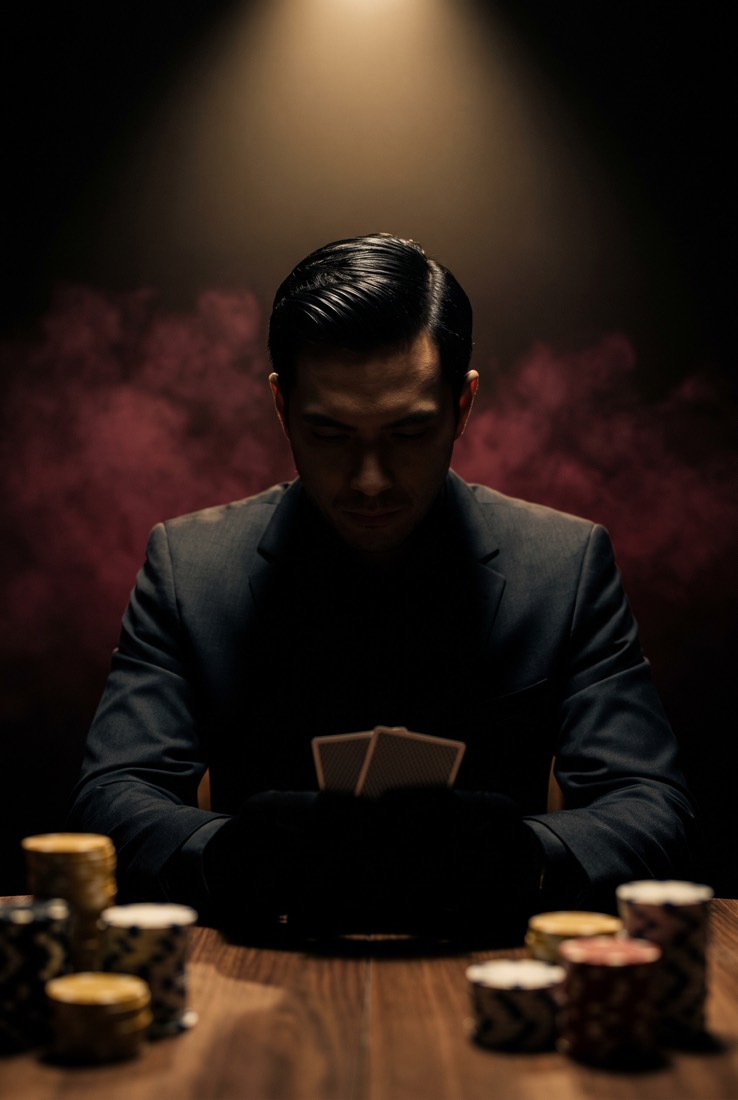
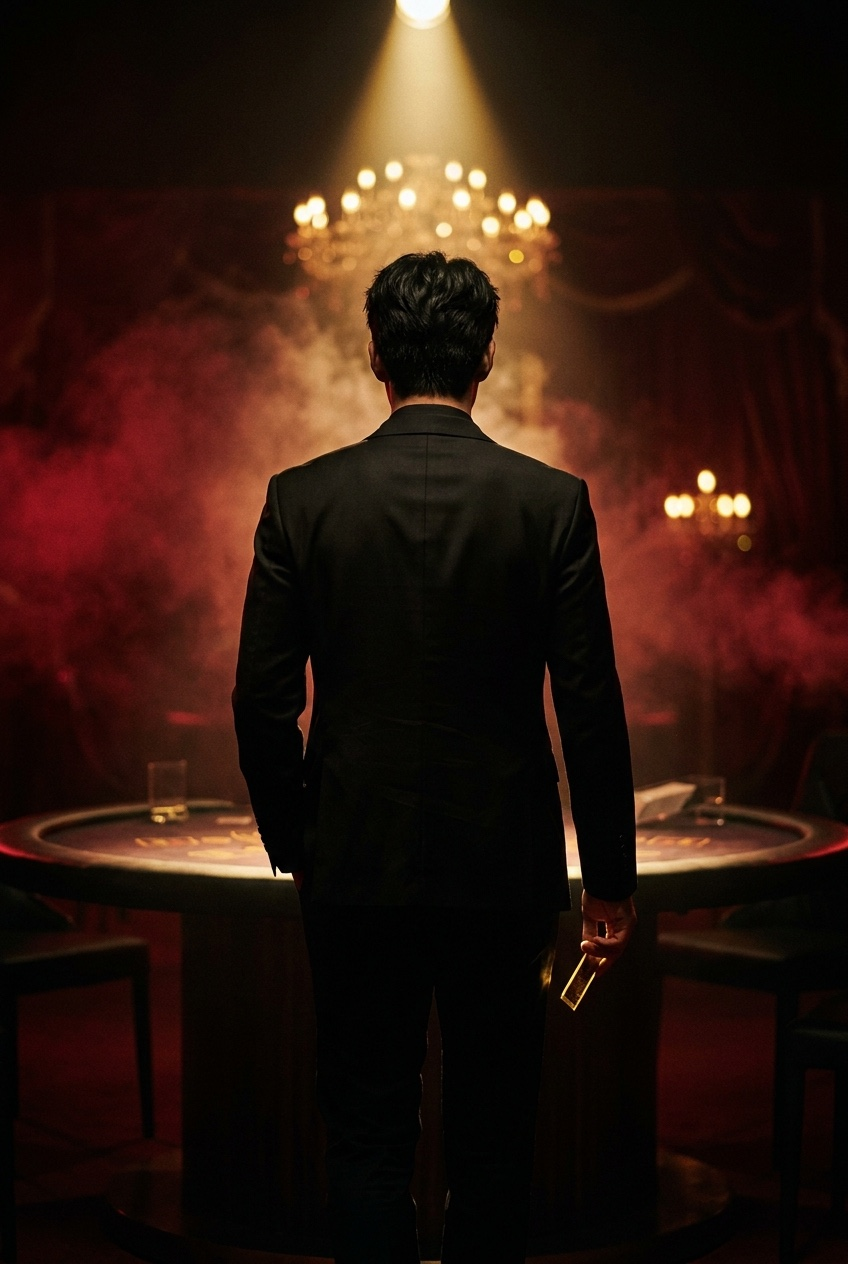
히어로 이미지 교체(20대 뒷모습 비노출)·메인 카피 전면 교체(8개 언어)

diff --git a/index.html b/index.html
@@ -524,7 +524,7 @@ footer .mono{font-family:var(--mono);letter-spacing:.14em}
 <section class="quoteband">
   <img src="images/nf_couple.jpg" alt="">
   <div class="qveil"></div>
-  <p data-i="q_line">"인생의 올인은,<br>사랑하는 사람이다."</p>
+  <p data-i="q_line">"운명이 내민 마지막 패는,<br>너였다."</p>
   <span class="mono">ALL-IN 2 · NOT OVER · 2028 GLOBAL RELEASE</span>
 </section>
 
@@ -571,7 +571,7 @@ footer .mono{font-family:var(--mono);letter-spacing:.14em}
     v4_t:"IP 프랜차이즈",v4_p:"드라마는 시작일 뿐. 시즌2와 스핀오프, 웹툰·OST·제주 세트장 관광까지 — 한 편이 아니라 하나의 세계를 만든다.",
     pr1:"SOUNDSTAGE — 카지노 세트",pr2:"LOCATION — 제주",pr3:"SET — 프라이빗 살롱",pr4:"LOCATION — 중동",
     r1_t:"기획 확정",r1_p:"권리 정비 · 대본 리라이팅 · 랜딩페이지 오픈",r2_t:"캐스팅 · 판매",r2_p:"주연 캐스팅 패키지 · 글로벌 판매 협상 · 중동 계약",r3_t:"촬영",r3_p:"제주 세트장 개시 · 글로벌 로케이션 · 티저 공개",r4_t:"글로벌 공개",r4_p:"시즌1 동시공개 · 시즌2 촬영 · IP 확장 가동",
-    q_line:"\"인생의 올인은,<br>사랑하는 사람이다.\"",
+    q_line:"\"운명이 내민 마지막 패는,<br>너였다.\"",
     s_t:"가장 먼저, 판에 앉으세요",s_p:"티저 공개·캐스팅 발표 소식을 가장 먼저 받아보세요.",s_btn:"알림 신청",s_biz:"투자·제휴 문의 — EYE ON ENTERTAINMENT",
     f_l:"올인2 〈낫오버〉 공식 랜딩페이지",
     nav_gallery:"갤러리",nav_blog:"블로그",nav_company:"회사 소개",
@@ -617,7 +617,7 @@ footer .mono{font-family:var(--mono);letter-spacing:.14em}
     v4_t:"IP Franchise",v4_p:"The drama is only the beginning. Season 2, spin-offs, webtoon, OST, Jeju set tourism — we're building a world, not just a show.",
     pr1:"SOUNDSTAGE — CASINO SET",pr2:"LOCATION — JEJU",pr3:"SET — PRIVATE SALON",pr4:"LOCATION — MIDDLE EAST",
     r1_t:"Greenlight",r1_p:"Rights · script rewrite · landing page launch",r2_t:"Casting · Sales",r2_p:"Lead casting package · global sales · Middle East deals",r3_t:"Production",r3_p:"Jeju stage · global locations · teaser drop",r4_t:"Global Release",r4_p:"Season 1 worldwide · Season 2 shoot · IP expansion",
-    q_line:"\"In life, you go all-in<br>on the one you love.\"",
+    q_line:"\"The last card fate dealt me<br>was you.\"",
     s_t:"Take your seat first",s_p:"Be the first to hear about teasers and casting news.",s_btn:"Notify Me",s_biz:"INVESTMENT & PARTNERSHIP — EYE ON ENTERTAINMENT",
     f_l:"ALL-IN 2 〈NOT OVER〉 Official Landing Page",
     nav_gallery:"Gallery",nav_blog:"Blog",nav_company:"Studio",
@@ -663,7 +663,7 @@ footer .mono{font-family:var(--mono);letter-spacing:.14em}
     v4_t:"IPフランチャイズ",v4_p:"ドラマは始まりに過ぎない。シーズン2、スピンオフ、ウェブトゥーン、OST、済州セット観光まで — 一本ではなく一つの世界をつくる。",
     pr1:"SOUNDSTAGE — カジノセット",pr2:"LOCATION — 済州",pr3:"SET — プライベートサロン",pr4:"LOCATION — 中東",
     r1_t:"企画確定",r1_p:"権利整備 · 脚本リライト · ページ公開",r2_t:"キャスティング · 販売",r2_p:"主演パッケージ · グローバル販売交渉 · 中東契約",r3_t:"撮影",r3_p:"済州セット開始 · 海外ロケ · ティザー公開",r4_t:"世界公開",r4_p:"S1同時公開 · S2撮影 · IP拡張",
-    q_line:"「人生のオールインは、<br>愛する人にするものだ。」",
+    q_line:"「運命が差し出した最後の一枚は、<br>君だった。」",
     s_t:"誰よりも先に、席へ",s_p:"ティザーとキャスティングのニュースを最初に受け取る。",s_btn:"通知を受け取る",s_biz:"投資・提携のお問い合わせ — EYE ON ENTERTAINMENT",
     f_l:"ALL-IN 2〈NOT OVER〉公式ランディングページ"},
   zh:{nav_about:"作品介绍",nav_cast:"人物",nav_market:"市场",nav_vision:"制作愿景",nav_prod:"制作现场",nav_road:"路线图",nav_contact:"联系",
@@ -686,7 +686,7 @@ footer .mono{font-family:var(--mono);letter-spacing:.14em}
     v4_t:"IP franchise",v4_p:"剧集只是开始。第二季、衍生剧、网漫、OST、济州片场观光 — 打造的不是一部剧,而是一个世界。",
     pr1:"SOUNDSTAGE — 赌场棚拍",pr2:"LOCATION — 济州",pr3:"SET — 私人沙龙",pr4:"LOCATION — 中东",
     r1_t:"立项确定",r1_p:"权利整备 · 剧本重写 · 页面上线",r2_t:"选角 · 销售",r2_p:"主演阵容 · 全球销售谈判 · 中东签约",r3_t:"拍摄",r3_p:"济州开机 · 海外取景 · 预告发布",r4_t:"全球上线",r4_p:"S1同步上线 · S2开拍 · IP扩展",
-    q_line:"“人生的All-in,<br>押在所爱之人身上。”",
+    q_line:"“命运递来的最后一张牌,<br>是你。”",
     s_t:"抢先入座",s_p:"第一时间获取预告与选角消息。",s_btn:"订阅通知",s_biz:"投资与合作洽询 — EYE ON ENTERTAINMENT",
     f_l:"ALL-IN 2《NOT OVER》官方页面"},
   vi:{nav_about:"Giới thiệu",nav_cast:"Nhân vật",nav_market:"Thị trường",nav_vision:"Tầm nhìn",nav_prod:"Sản xuất",nav_road:"Lộ trình",nav_contact:"Liên hệ",
@@ -709,7 +709,7 @@ footer .mono{font-family:var(--mono);letter-spacing:.14em}
     v4_t:"Nhượng quyền IP",v4_p:"Bộ phim chỉ là khởi đầu. Mùa 2, ngoại truyện, webtoon, OST, du lịch phim trường Jeju — chúng tôi xây một thế giới, không chỉ một bộ phim.",
     pr1:"SOUNDSTAGE — TRƯỜNG QUAY CASINO",pr2:"LOCATION — JEJU",pr3:"SET — SALON RIÊNG",pr4:"LOCATION — TRUNG ĐÔNG",
     r1_t:"Chốt dự án",r1_p:"Bản quyền · viết lại kịch bản · mở trang",r2_t:"Casting · Bán",r2_p:"Gói diễn viên chính · đàm phán toàn cầu · hợp đồng Trung Đông",r3_t:"Quay phim",r3_p:"Phim trường Jeju · bối cảnh toàn cầu · ra teaser",r4_t:"Phát hành toàn cầu",r4_p:"S1 toàn cầu · quay S2 · mở rộng IP",
-    q_line:"\"Trong đời, ta all-in<br>vì người mình yêu.\"",
+    q_line:"\"Lá bài cuối cùng định mệnh trao ta,<br>chính là em.\"",
     s_t:"Ngồi vào bàn trước tiên",s_p:"Nhận tin teaser và casting sớm nhất.",s_btn:"Đăng ký",s_biz:"ĐẦU TƯ & HỢP TÁC — EYE ON ENTERTAINMENT",
     f_l:"Trang chính thức ALL-IN 2 〈NOT OVER〉"},
   ar:{nav_about:"عن العمل",nav_cast:"الشخصيات",nav_market:"السوق",nav_vision:"الرؤية",nav_prod:"الإنتاج",nav_road:"خارطة الطريق",nav_contact:"تواصل",
@@ -732,7 +732,7 @@ footer .mono{font-family:var(--mono);letter-spacing:.14em}
     v4_t:"امتياز الملكية",v4_p:"الدراما مجرد بداية. موسم ثانٍ، أعمال مشتقة، ويبتون، موسيقى، وسياحة موقع جيجو — نبني عالمًا لا مسلسلًا واحدًا.",
     pr1:"استوديو — موقع الكازينو",pr2:"موقع — جيجو",pr3:"موقع — الصالون الخاص",pr4:"موقع — الشرق الأوسط",
     r1_t:"اعتماد المشروع",r1_p:"الحقوق · إعادة الكتابة · إطلاق الصفحة",r2_t:"الاختيار · البيع",r2_p:"باقة البطولة · مفاوضات عالمية · عقود الشرق الأوسط",r3_t:"التصوير",r3_p:"استوديو جيجو · مواقع عالمية · إعلان تشويقي",r4_t:"الإطلاق العالمي",r4_p:"الموسم الأول عالميًا · تصوير الثاني · توسيع الملكية",
-    q_line:"«في الحياة، تراهن بكل شيء<br>على من تحب.»",
+    q_line:"«آخر ورقة قدّمها لي القدر<br>كانت أنت.»",
     s_t:"احجز مقعدك أولًا",s_p:"كن أول من يعرف أخبار الإعلانات والاختيارات.",s_btn:"اشترك",s_biz:"للاستثمار والشراكة — آي أون إنترتينمنت",
     f_l:"الصفحة الرسمية ALL-IN 2 〈NOT OVER〉"},
   es:{nav_about:"La serie",nav_cast:"Personajes",nav_market:"Mercado",nav_vision:"Visión",nav_prod:"Producción",nav_road:"Hoja de ruta",nav_contact:"Contacto",
@@ -755,7 +755,7 @@ footer .mono{font-family:var(--mono);letter-spacing:.14em}
     v4_t:"Franquicia IP",v4_p:"La serie es solo el comienzo. Temporada 2, spin-offs, webtoon, OST y turismo del set de Jeju — construimos un mundo, no solo una serie.",
     pr1:"SOUNDSTAGE — SET DE CASINO",pr2:"LOCACIÓN — JEJU",pr3:"SET — SALÓN PRIVADO",pr4:"LOCACIÓN — ORIENTE MEDIO",
     r1_t:"Luz verde",r1_p:"Derechos · reescritura · lanzamiento web",r2_t:"Casting · Ventas",r2_p:"Paquete protagonista · ventas globales · acuerdos en Oriente Medio",r3_t:"Rodaje",r3_p:"Set de Jeju · locaciones globales · teaser",r4_t:"Estreno global",r4_p:"T1 mundial · rodaje T2 · expansión IP",
-    q_line:"\"En la vida, vas con todo<br>por la persona que amas.\"",
+    q_line:"\"La última carta que me dio el destino<br>fuiste tú.\"",
     s_t:"Toma asiento primero",s_p:"Sé el primero en conocer el teaser y el casting.",s_btn:"Avisarme",s_biz:"INVERSIÓN Y ALIANZAS — EYE ON ENTERTAINMENT",
     f_l:"Página oficial de ALL-IN 2 〈NOT OVER〉"}
   };
